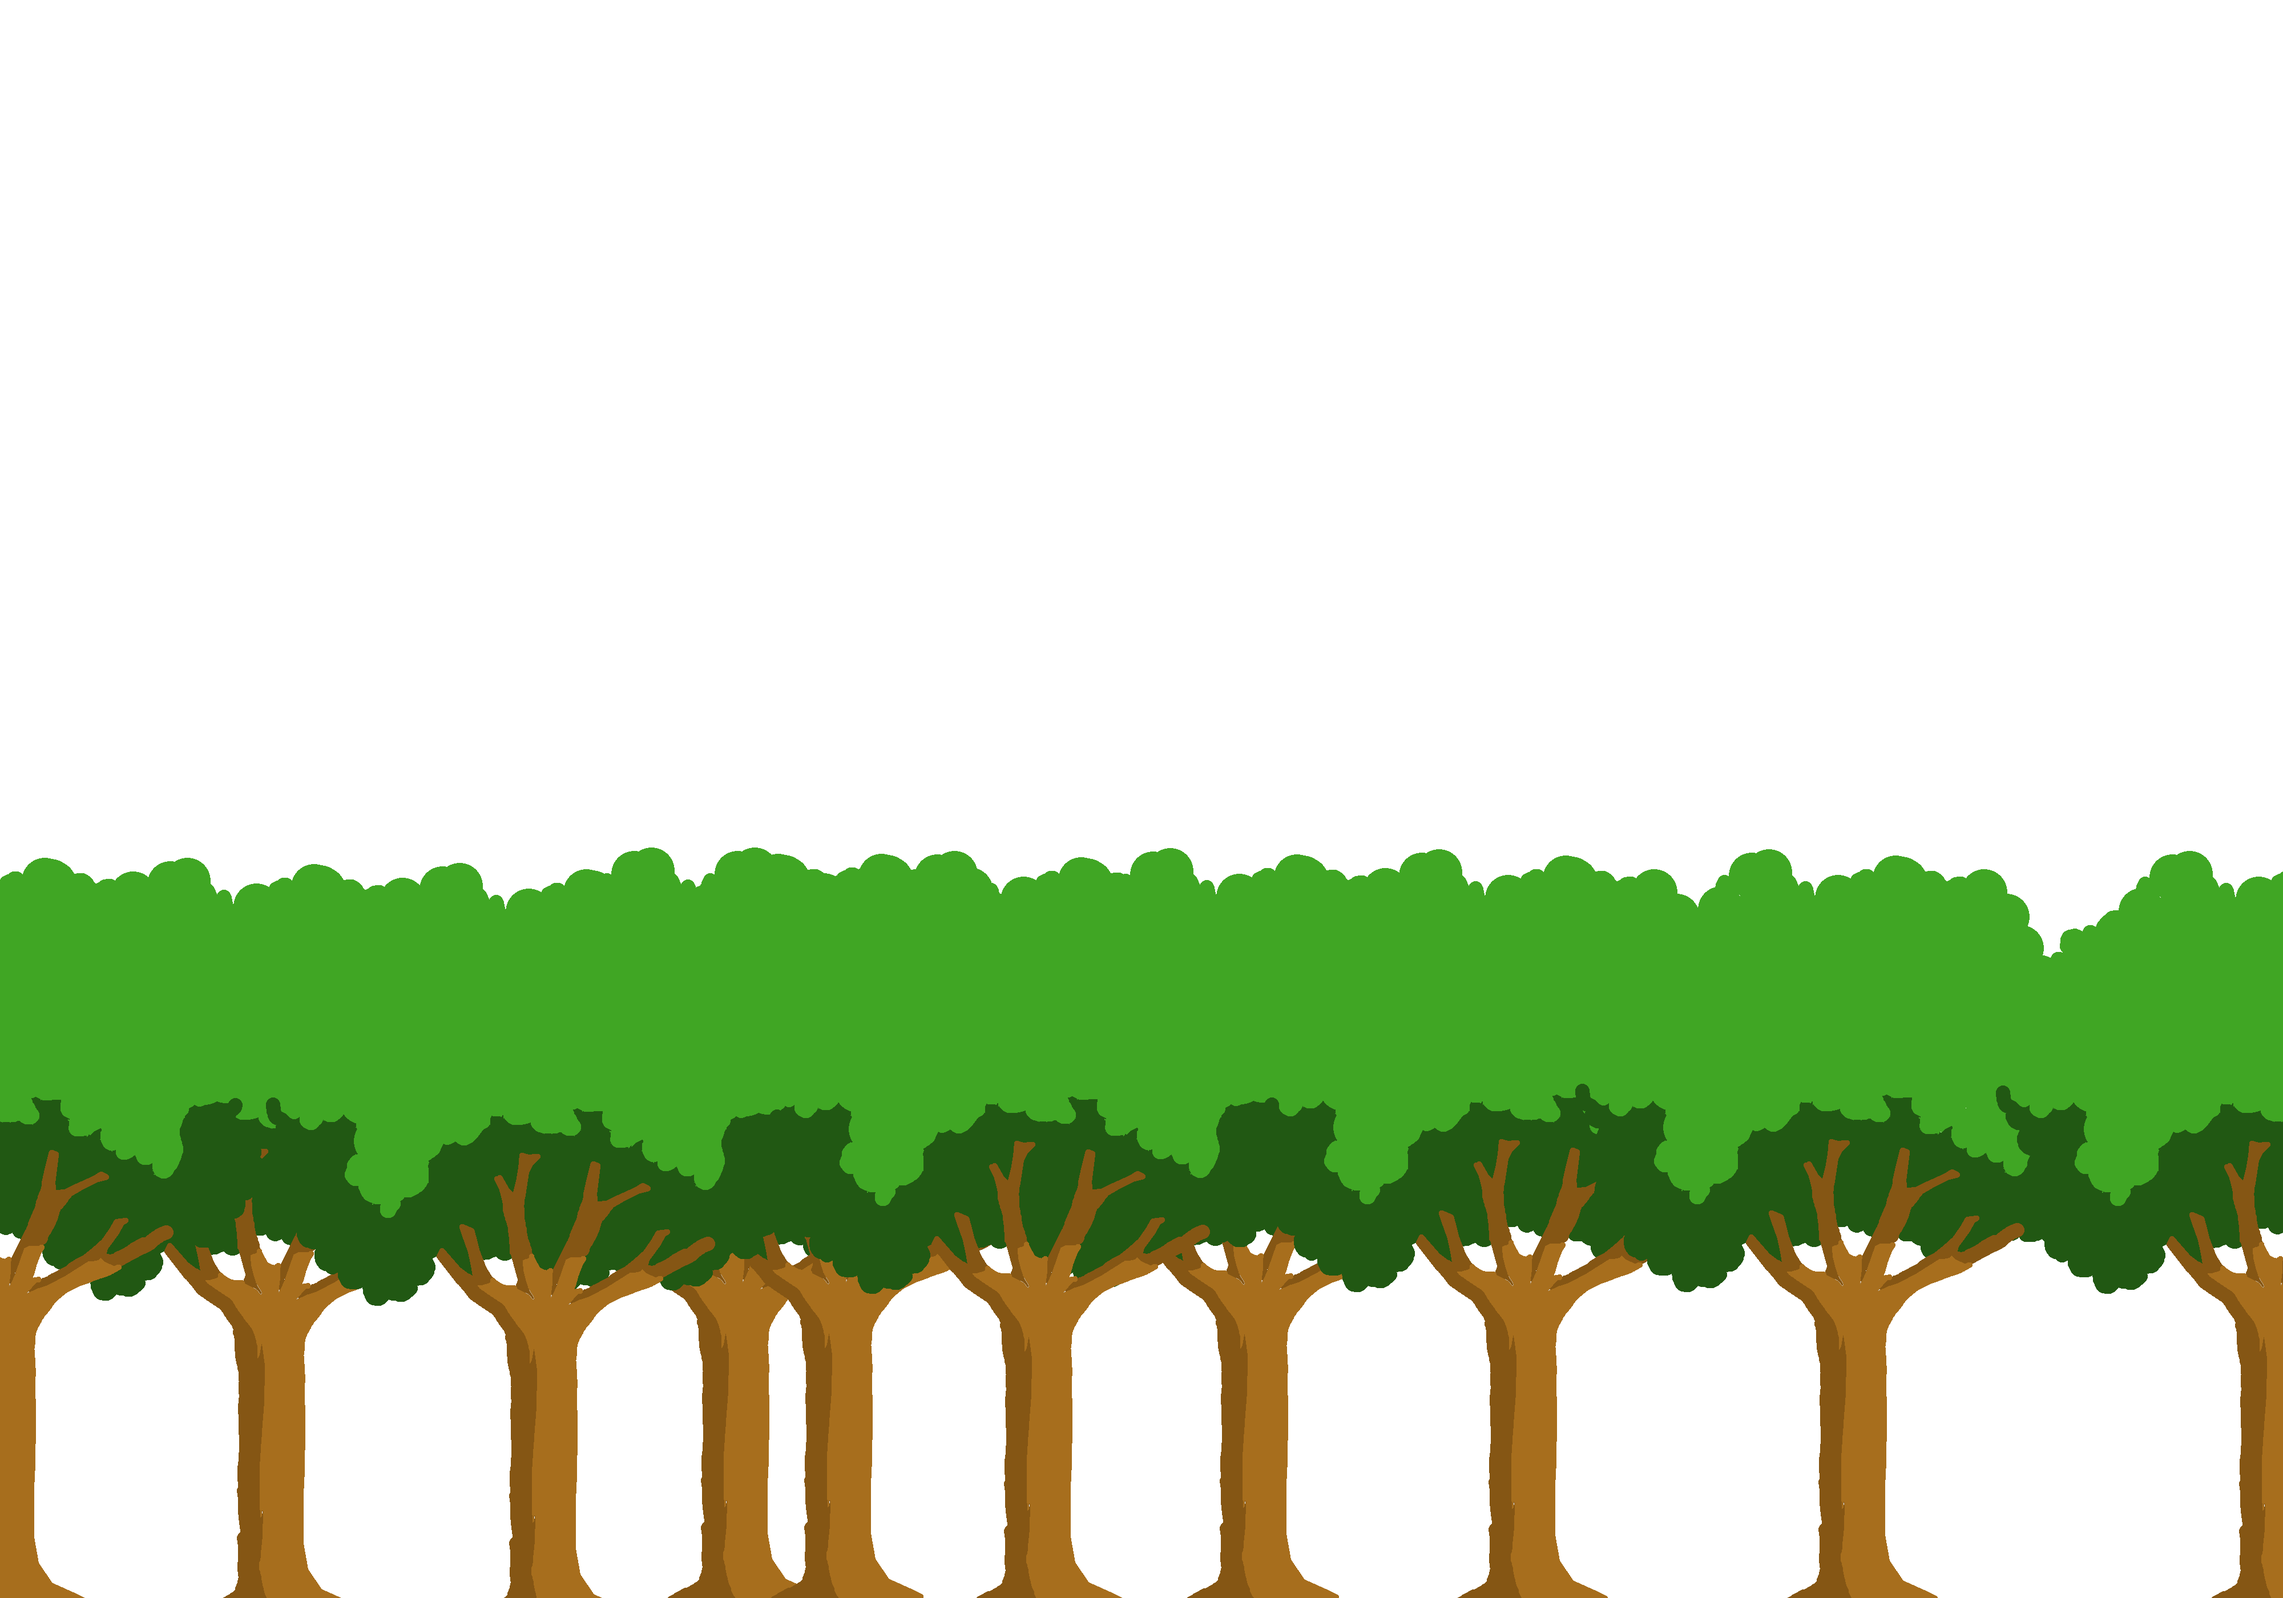
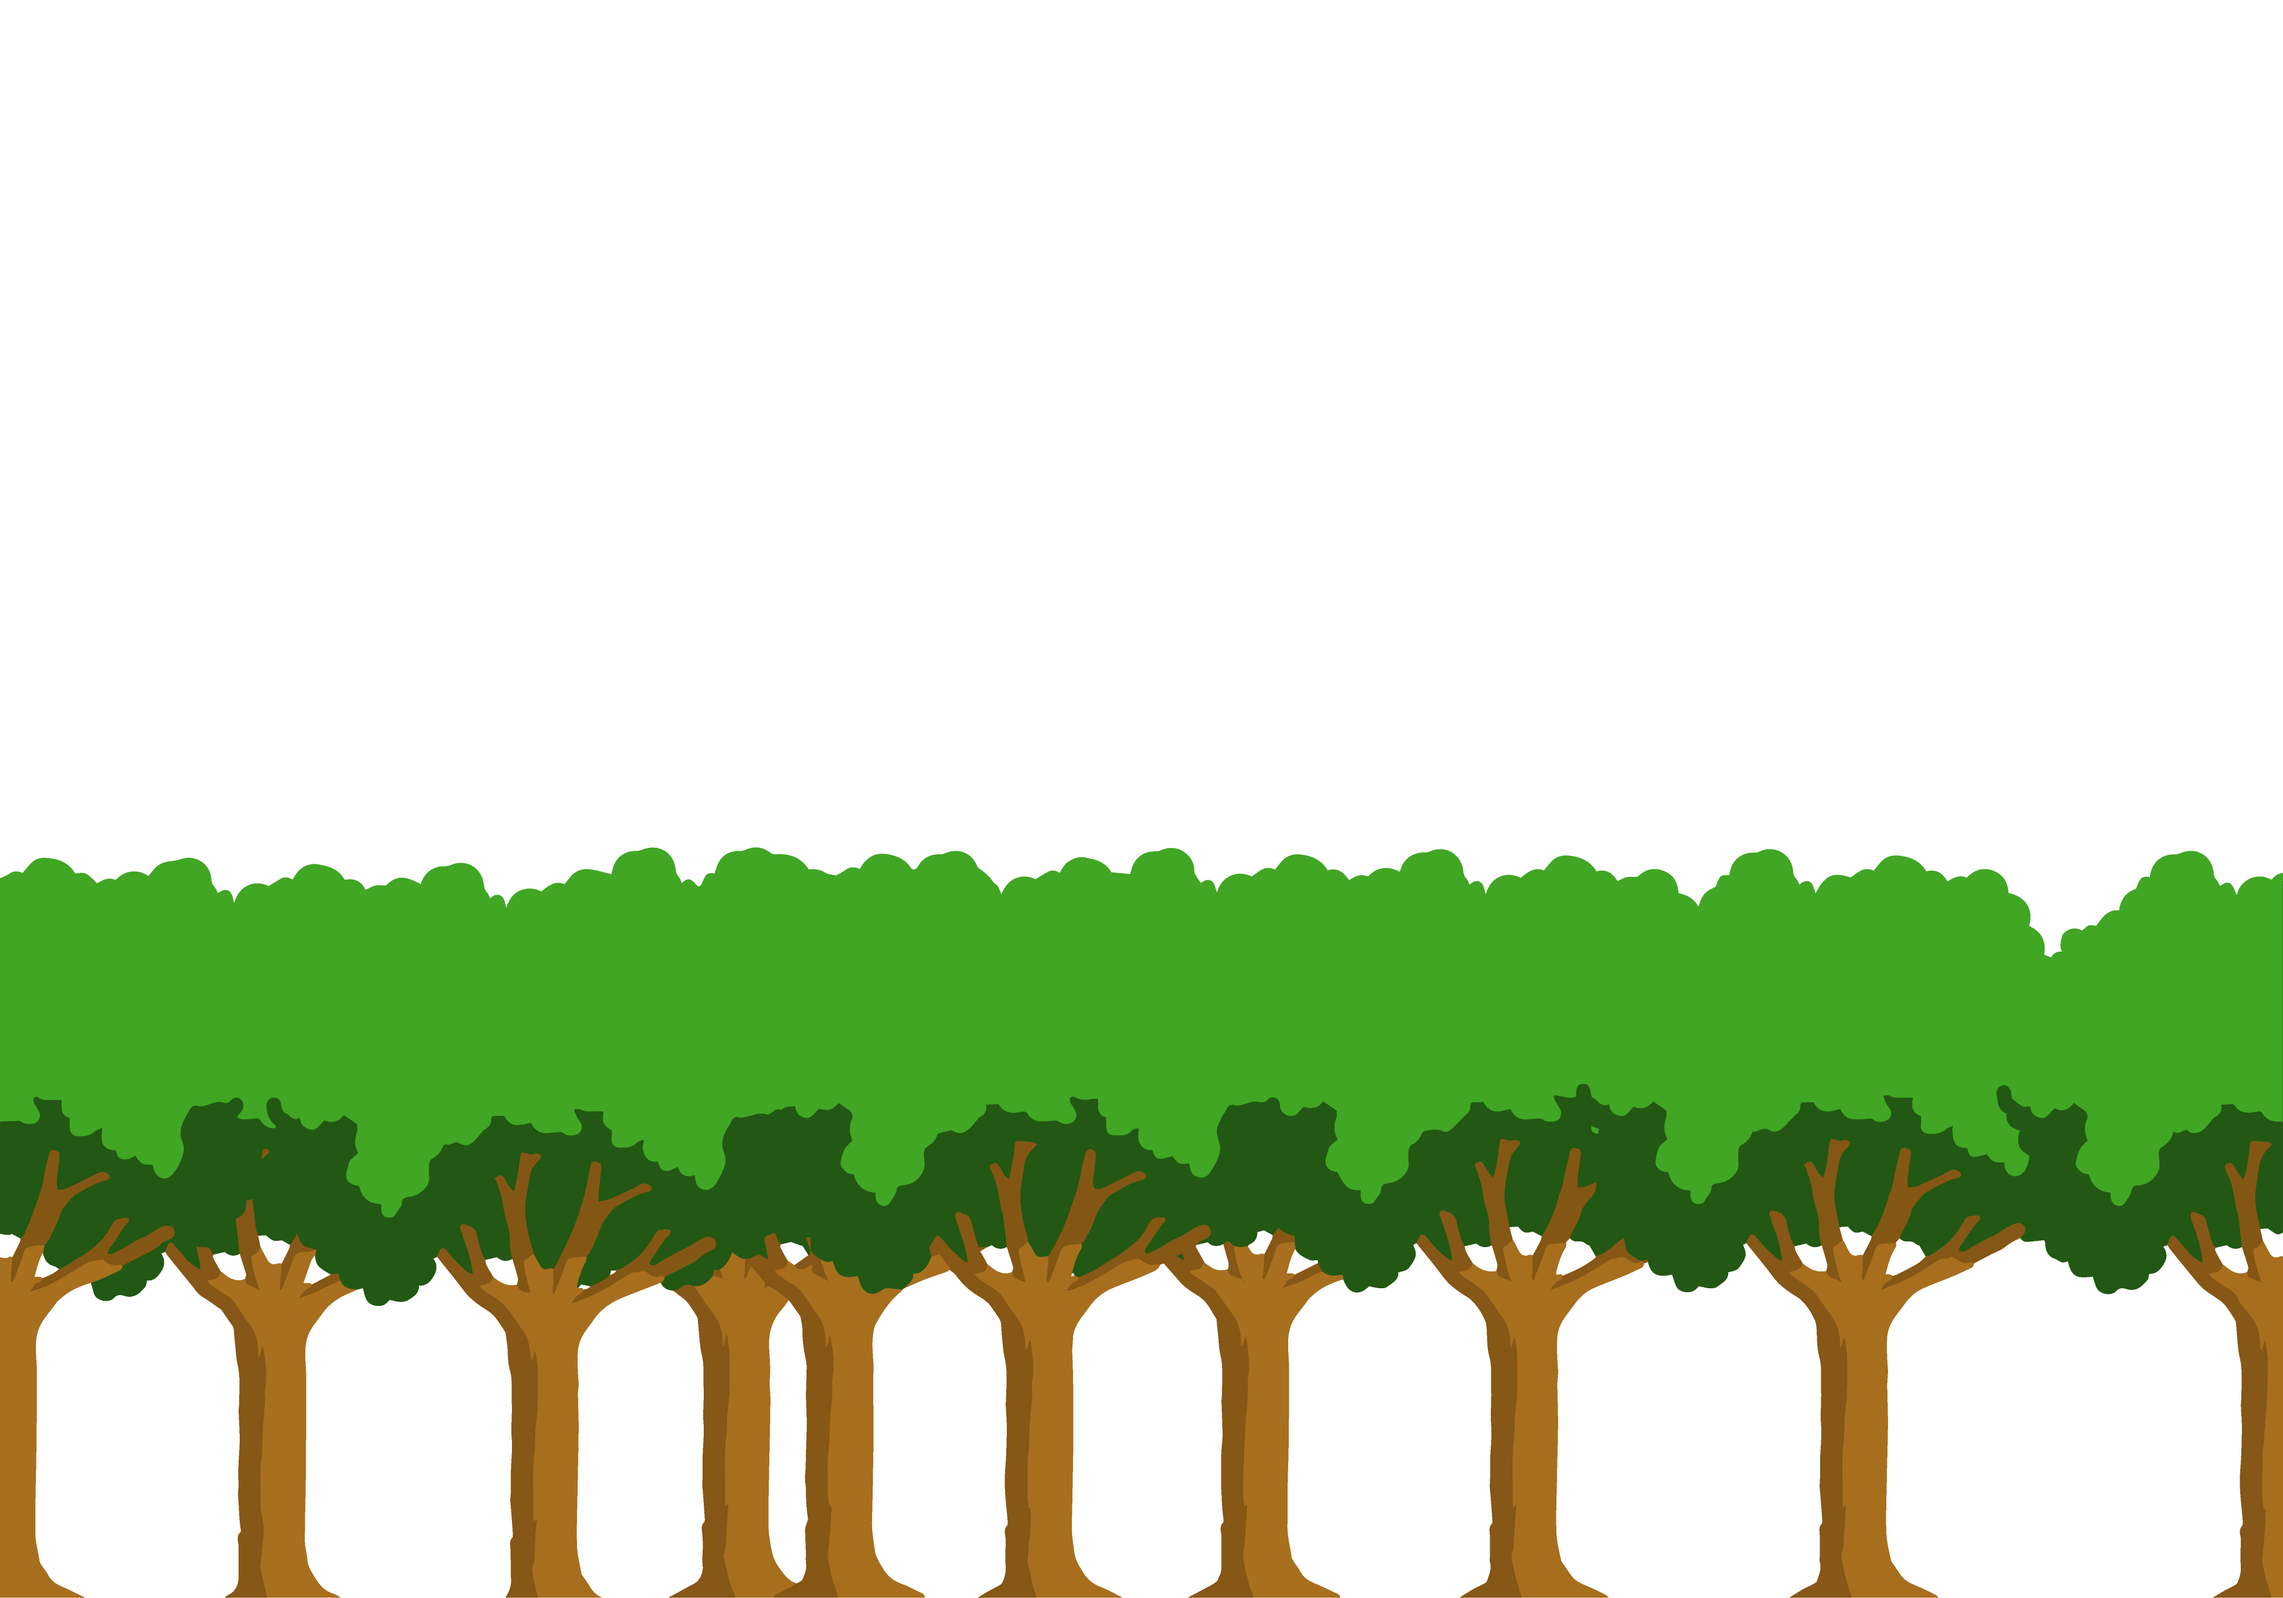
gfx changes
tree graphics now all sharp, screwing around with background. to be
changed...

diff --git a/Assets/Scripts/PlatformerCharacter2D.cs b/Assets/Scripts/PlatformerCharacter2D.cs
@@ -24,10 +24,9 @@ public class PlatformerCharacter2D : MonoBehaviour
     bool jump, jumping, slide;
     int slideFrame;
     public Vector2 scaleVector = new Vector2(0, 0.07F), moveVector = new Vector2(0, 0.04F);
-    bool isDead;
+    bool isDead, bigJumpPossible;
     public bool audioActive;
     public float gravScale, fallingBuffer;
-
 
     void Awake()
     {
@@ -35,7 +34,6 @@ public class PlatformerCharacter2D : MonoBehaviour
         anim = GetComponent<Animator>();
         speed = startingSpeed;
         isDead = false;
-
         //initialize if sound should be played
         if (PlayerPrefs.HasKey("music"))
         {
@@ -76,6 +74,8 @@ public class PlatformerCharacter2D : MonoBehaviour
 
     }
 
+
+
     void FixedUpdate()
     {
         grounded = Physics2D.OverlapCircle(MyCollider.bounds.min, groundedRadius, collideWithWhat);
@@ -101,17 +101,18 @@ public class PlatformerCharacter2D : MonoBehaviour
             if (!audio.isPlaying && audioActive) audio.Play();
         }
         else if (audio.isPlaying) audio.Stop();
-
+        
         if (grounded && jump)
         {
             anim.SetBool("Ground", false);
-            rigidbody2D.AddForce(new Vector2(0f, jumpForce));
+            rigidbody2D.AddForce(new Vector2(0f, jumpForce), ForceMode2D.Force);
         }
         else if (jumping)
         {
+
+
             if (rigidbody2D.velocity.y < fallingBuffer) {
                 rigidbody2D.velocity = new Vector2(rigidbody2D.velocity.x, fallingBuffer);
-                Debug.Log("buffered");
             }
             rigidbody2D.gravityScale = gravScale + speed / 2;
         }
